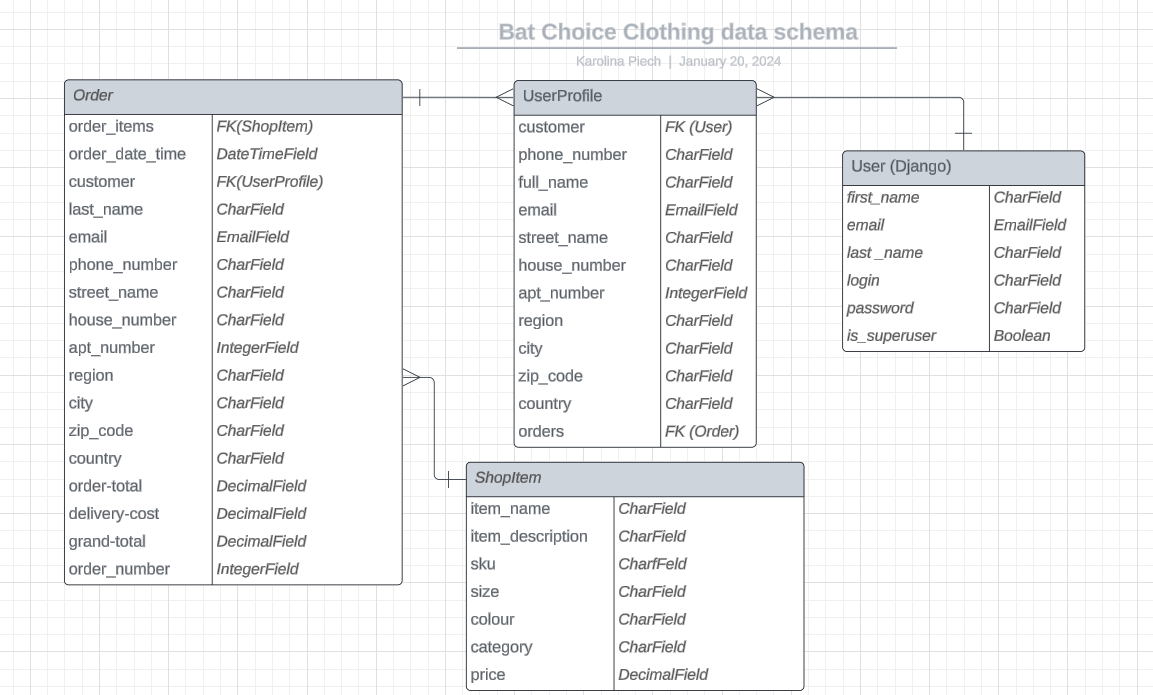
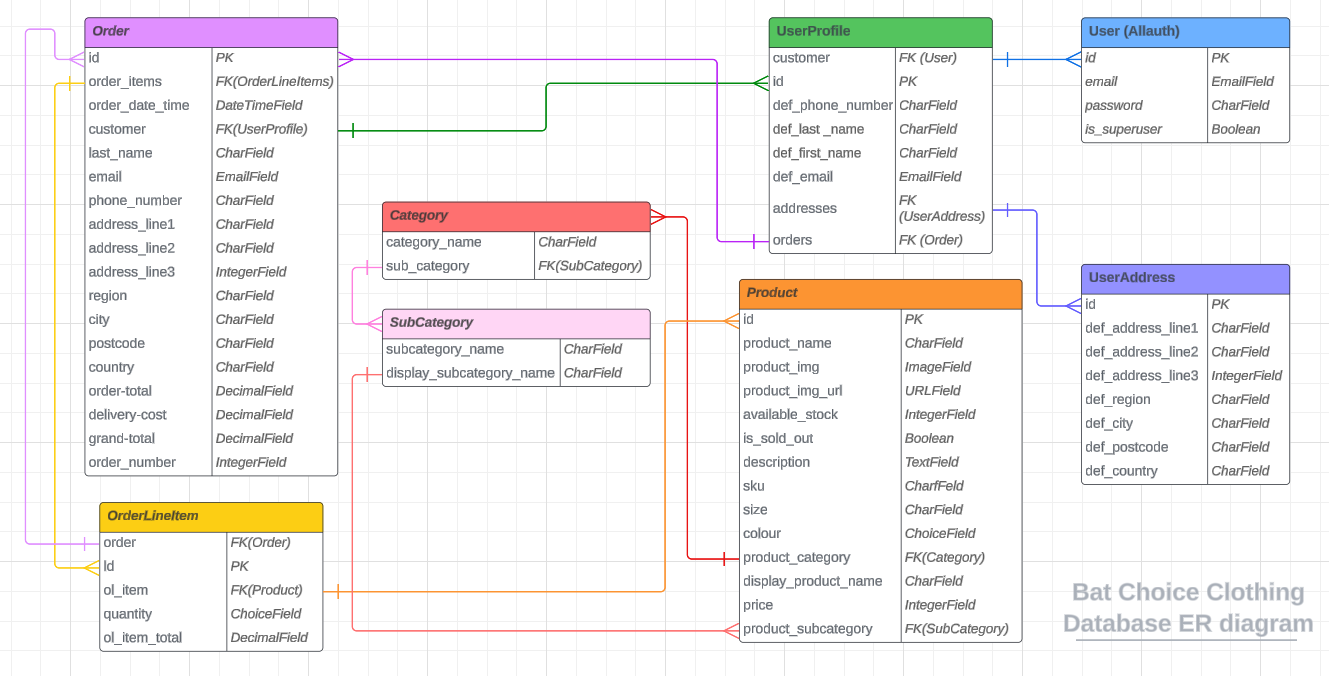
Update UX module and Data schema

diff --git a/README.md b/README.md
@@ -66,23 +66,49 @@
 ## UX design
 
 
-
 ### Overview
 
-
+In the initial phase of this project I designed a broad set of wireframes and mockups covering most of the features and screen sizes to help me decide on the structure, design and layout of the website before entering the coding stage. To help me with this task I used [Justinmind](https://www.justinmind.com/).
 
 #### Design
 
+> Name and Logo 
 
+At first I needed to decide on the website's purpose, name and logo. As I wanted to create a goth/alternative online thrift shop, something related to the vampires, coffins or bats were the first things that came to my mind. In the end I chose to make the word play of "Bat Choice" and picked a bat's head as a part of the logo.
+To design my logo I used a free logo maker available at https://app.logo.com/.
+
+> Typography
+
+I decided on using two main fonts available through Google Fonts:
+
+- [Megrim](https://fonts.google.com/specimen/Megrim) for logo, headings and buttons
+- [Montserrat](https://fonts.google.com/specimen/Montserrat) for the rest of the website.
+
+> Colour palete
+
+When you think of the word "goth" you most likely picture something dark and moody. And so is the colour palette I decided on. I used the mix of black, white, grey and my favourite shade of purple to summon the dark, yet feminine vibes.
+To better visualise it I used [this colour palette generator](https://coolors.co/):
+
+<img src="readme-images/colour-palette.png" alt="Colour palette">
 
 #### Site User
 
+- A woman looking for an alternative clothing online store
+- A person looking for sustainable clothing options available without leaving their house
+- A teenage/ adult thrift store/ vintage lovers
+- A person who likes goth fashion and aesthetic
 
 #### Goals for the website
 
+- To allow Users to browse through multiple clothing categories, so they can find the products they're interested in
+- To help Customers access more sustainable clothing options
+- To keep User's data safe
+- To make the shopping process intuitive and simple, and to ensure that the payment system is secure
+- To have a clear marketing strategy and good SEO
+- To be accessible
+- To answer potential questions raised by customers
 
 ### Wireframes
-
 
 > Large to medium screens
 
@@ -100,11 +126,53 @@
 
 <img src="readme-images/about-page.png" alt="About page">
 
-- Contact Us:
+- Contact us:
 
 <img src="readme-images/contact.png" alt="Contact page">
 
+- Product details:
+
+<img src="readme-images/product-details.png" alt="Product details">
+
+- Shopping bag:
+
+<img src="readme-images/bag.png" alt="Shopping bag">
+
+- Checkout page:
+
+<img src="readme-images/checkout.png">
+
+- Login page:
+
+<img src="readme-images/sign-in.png" alt="Sign in">
+
+- Sign up page:
+
+<img src="readme-images/sign-up.png" alt="Sign up">
+
+- Profile page:
+
+<img src="readme-images/profile.png" alt="Profile page">
+
 > Small screens
+
+- Tablets:
+
+<img src="readme-images/tablet-about.png" alt="Tablet size about page">
+
+<img src="readme-images/tablet-product-details.png" alt="Product details on tablet">
+
+<img src="readme-images/tablet-checkout.png" alt="Checkout on tablet">
+
+- Mobile phones:
+
+<img src="readme-images/phone-home.png" alt="Homepage on phone">
+
+<img src="readme-images/phone-shoes.png" alt="Shoes page on phone">
+
+<img src="readme-images/phone-bag.png" alt="Shopping bag on phone">
+
+<img src="readme-images/phone-sign-in.png" alt="Sign in on phone">
 
 
 ##### [ Back to Top ](#table-of-contents)
